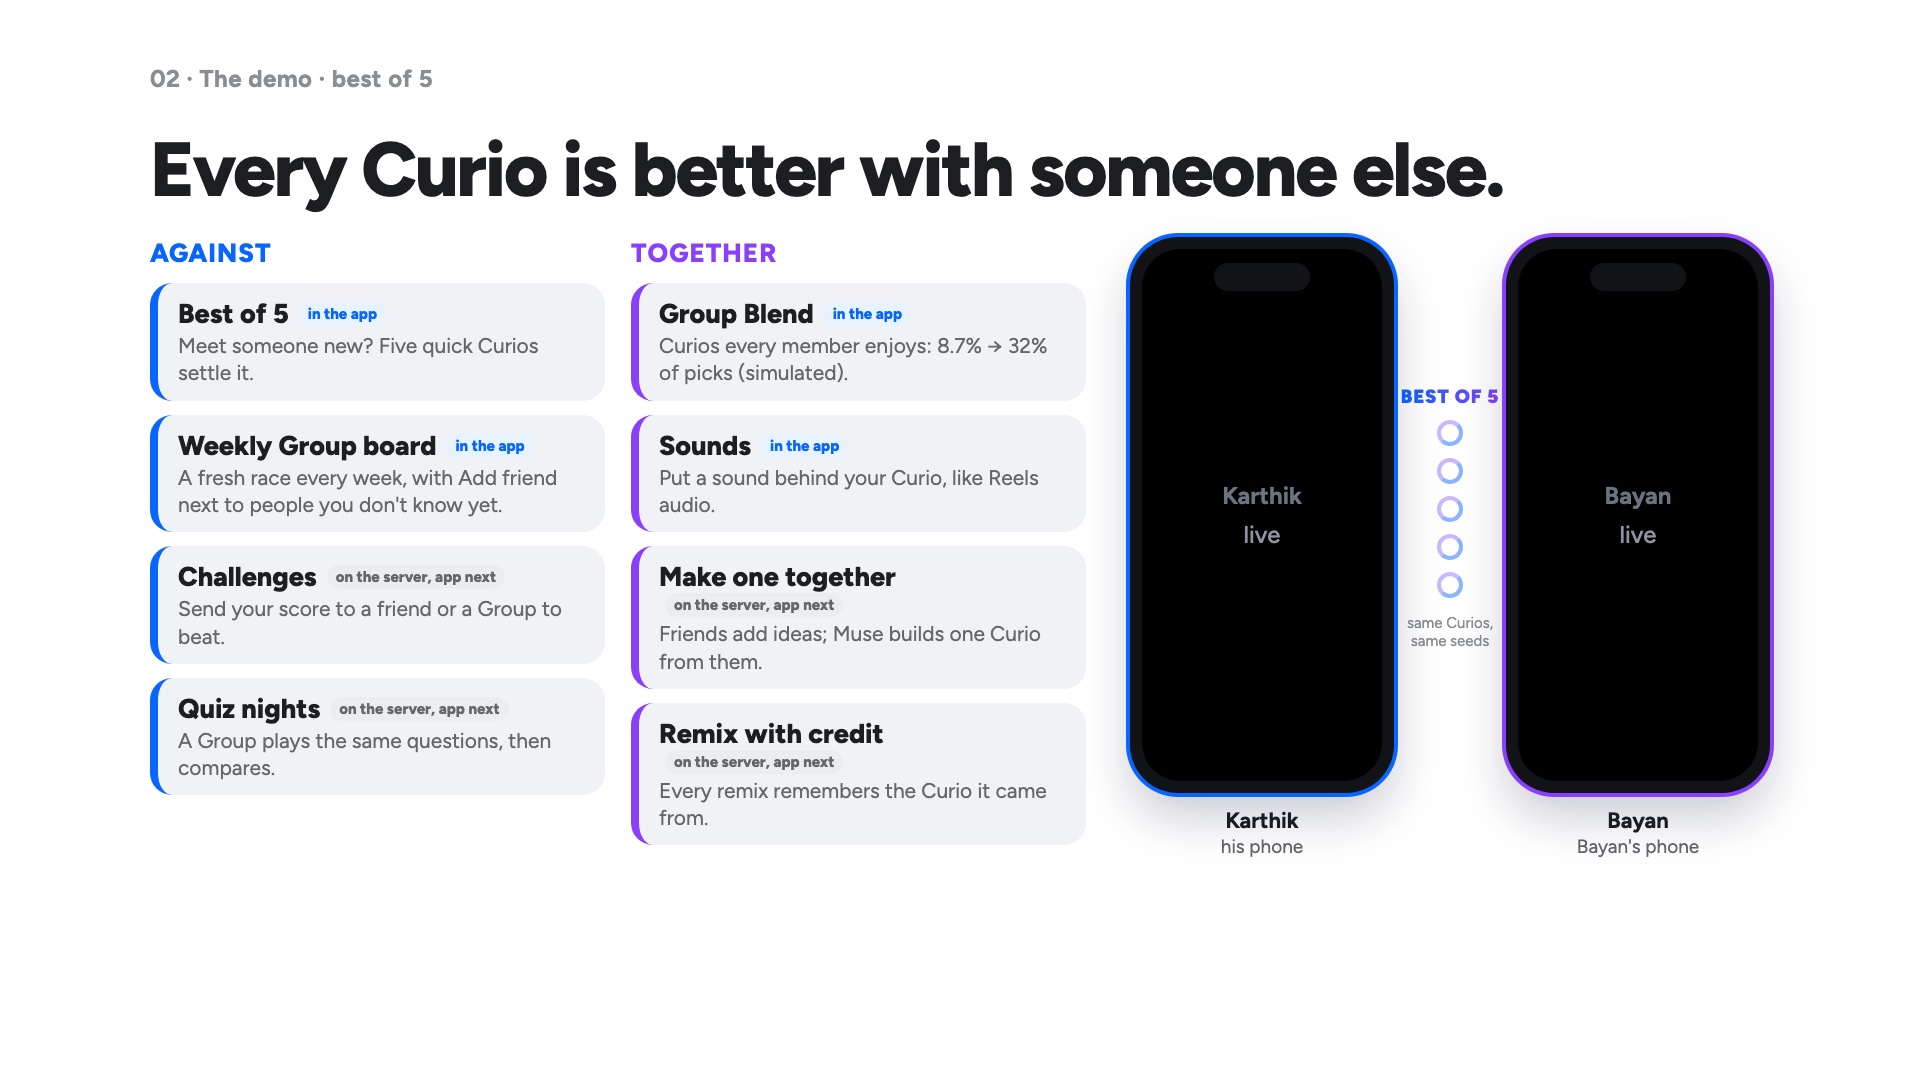
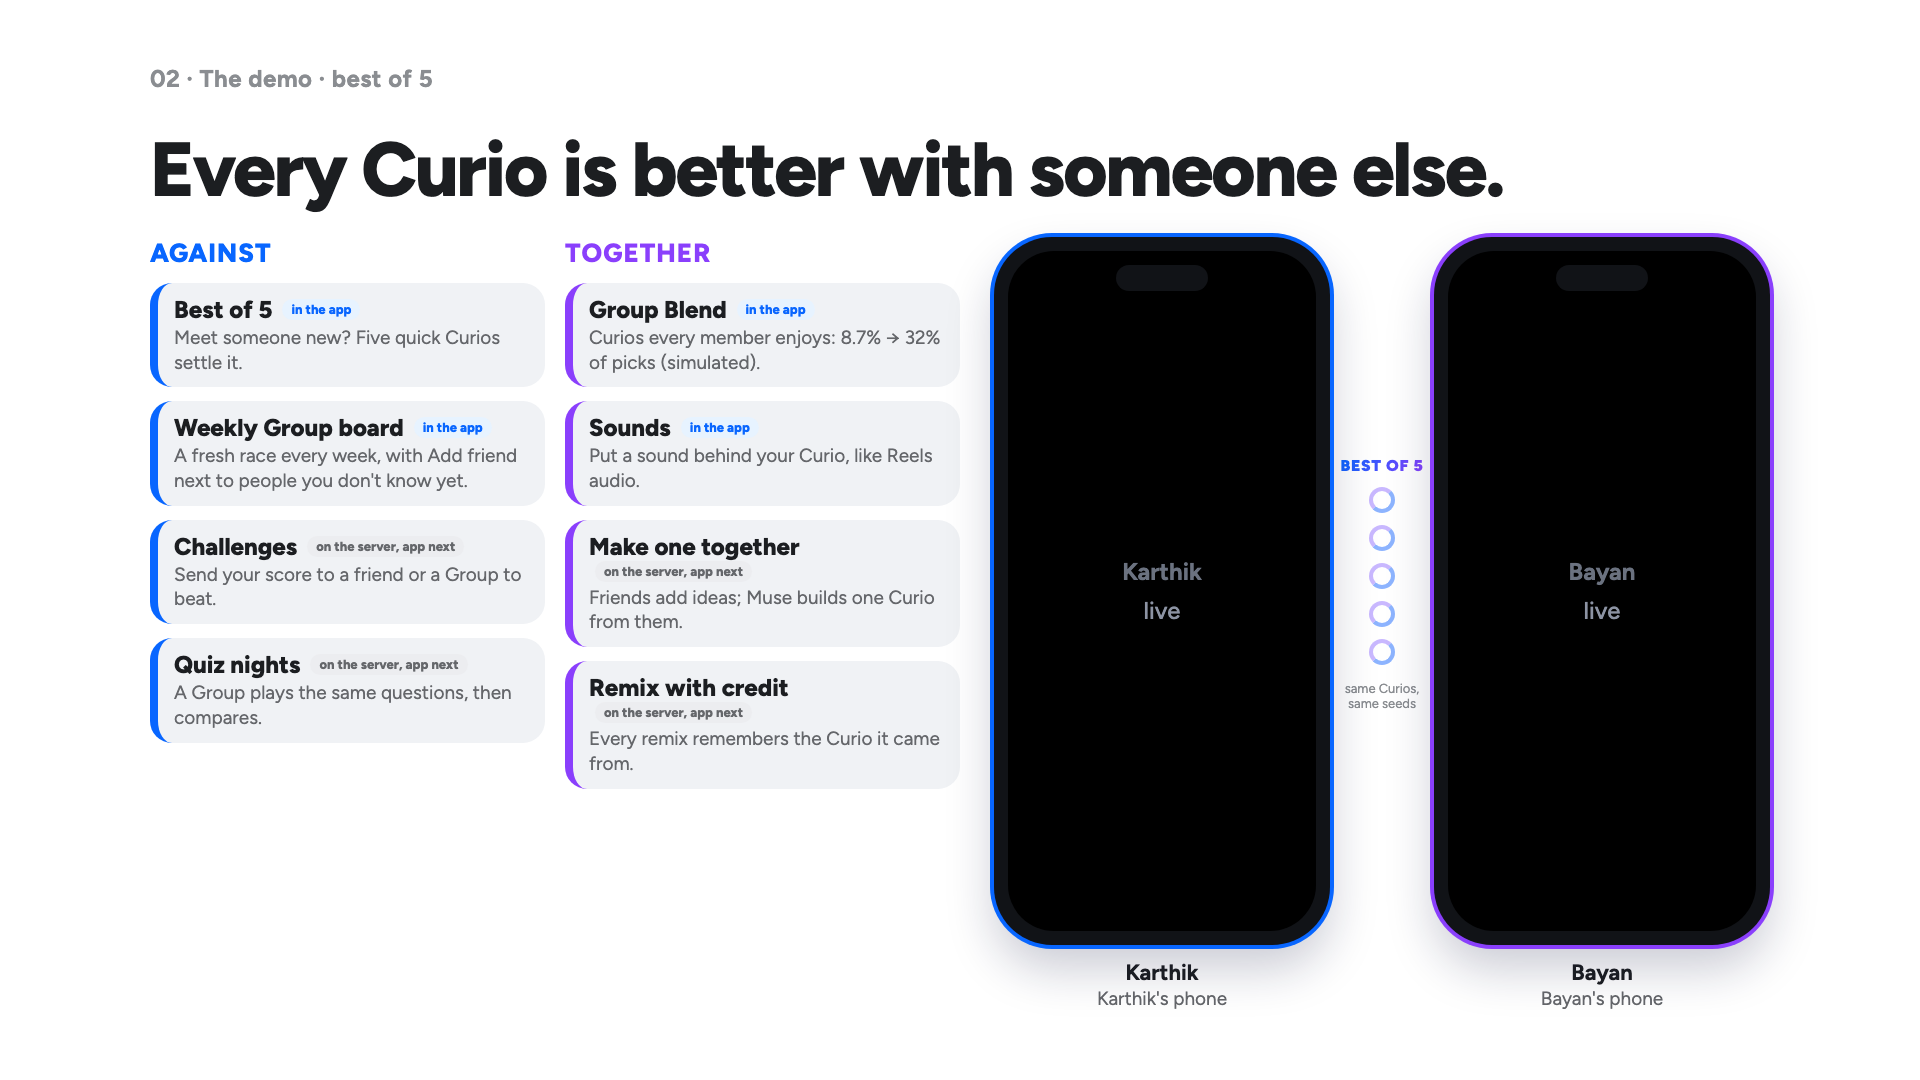
Slide 11: bigger live phones (screens 308x680, was 240x532), tighter cards (Karthik's ask)

diff --git a/docs/pr/slides/deck.html b/docs/pr/slides/deck.html
@@ -660,6 +660,13 @@ h2 { font-size: 96px; line-height: 1.04; font-weight: 800; letter-spacing: -.025
 .synums span { display: block; font-size: 19px; color: var(--sub); line-height: 1.3; margin-top: 6px; }
 /* positioning (Karthik, 2026-11-13 08:18): a Curio asks so little of you */
 .tlow { margin-top: 34px; font-size: 34px; font-weight: 600; color: var(--sub); line-height: 1.3; } .tlow b { color: var(--ink); font-weight: 800; } .tlow .grad { font-weight: 800; }
+
+/* slide 11: bigger live phones (Karthik, 09:35) */
+.collab .duo .phn { width: 336px; } .collab .duo .lp.iph { width: 336px !important; height: 708px !important; padding: 14px !important; border-radius: 58px !important; }
+.collab .duo .iph .scr { border-radius: 46px !important; } .collab .duo .iph .di { width: 92px; height: 26px; top: 14px; }
+.collab .bo5 { width: 96px; padding-top: 220px; } .collab .crow { gap: 34px; } .collab .cgrid { column-gap: 20px; }
+.collab .cf { padding: 12px 16px; } .collab .cf b { font-size: 24px; } .collab .cf p { font-size: 19px; } .collab .cf .chip { font-size: 13px; }
+.collab .bo5 { width: 104px; } .collab .bo5 em { font-size: 16px; white-space: nowrap; } .collab .bo5 i { font-size: 13px; }
 </style>
 </head>
 <body>
@@ -824,7 +831,7 @@ h2 { font-size: 96px; line-height: 1.04; font-weight: 800; letter-spacing: -.025
       <div class="ccol"><div class="cf v"><b>Group Blend</b> <span class="chip app">in the app</span><p>Curios every member enjoys: 8.7% → 32% of picks (simulated).</p></div><div class="cf v"><b>Sounds</b> <span class="chip app">in the app</span><p>Put a sound behind your Curio, like Reels audio.</p></div><div class="cf v"><b>Make one together</b> <span class="chip srv">on the server, app next</span><p>Friends add ideas; Muse builds one Curio from them.</p></div><div class="cf v"><b>Remix with credit</b> <span class="chip srv">on the server, app next</span><p>Every remix remembers the Curio it came from.</p></div></div>
     </div>
     <div class="ccr duo">
-      <figure class="phn a"><div class="lp iph"><div class="scr" id="lpscr"><i class="di"></i>Karthik<br><small>live</small></div></div><figcaption><b>Karthik</b>his phone</figcaption></figure>
+      <figure class="phn a"><div class="lp iph"><div class="scr" id="lpscr"><i class="di"></i>Karthik<br><small>live</small></div></div><figcaption><b>Karthik</b>Karthik's phone</figcaption></figure>
       <div class="bo5"><em>Best of 5</em><span class="r"></span><span class="r"></span><span class="r"></span><span class="r"></span><span class="r"></span><i>same Curios, same seeds</i></div>
       <figure class="phn b"><div class="lp iph"><div class="scr" id="lpscr2"><i class="di"></i>Bayan<br><small>live</small></div></div><figcaption><b>Bayan</b>Bayan's phone</figcaption></figure>
     </div>
